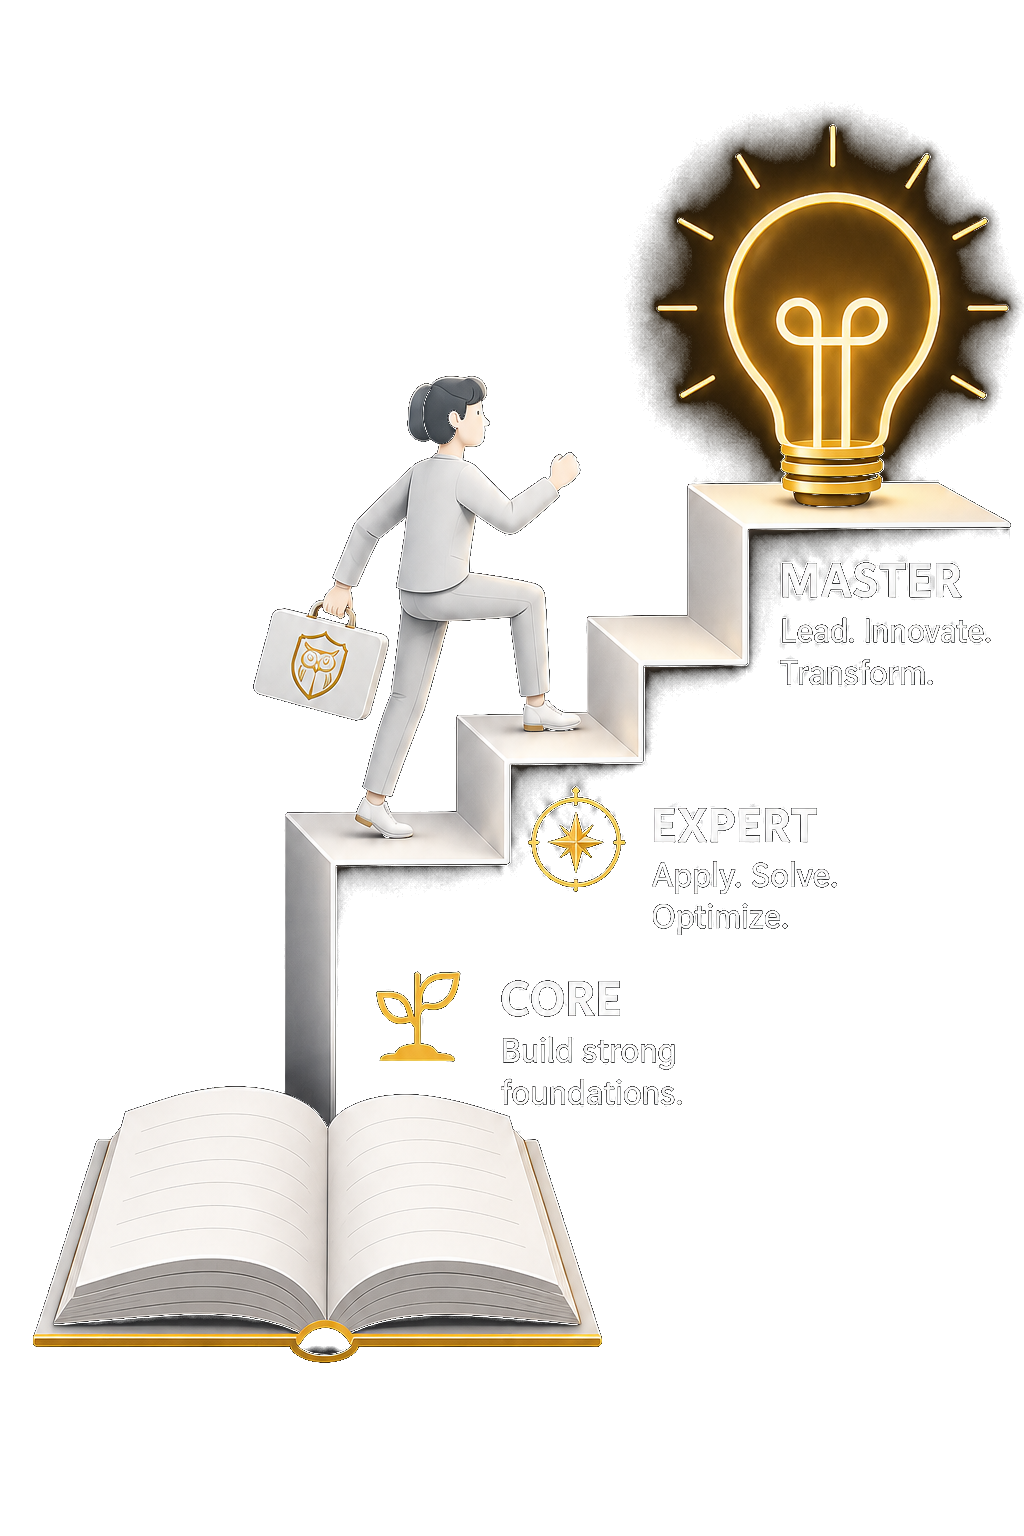
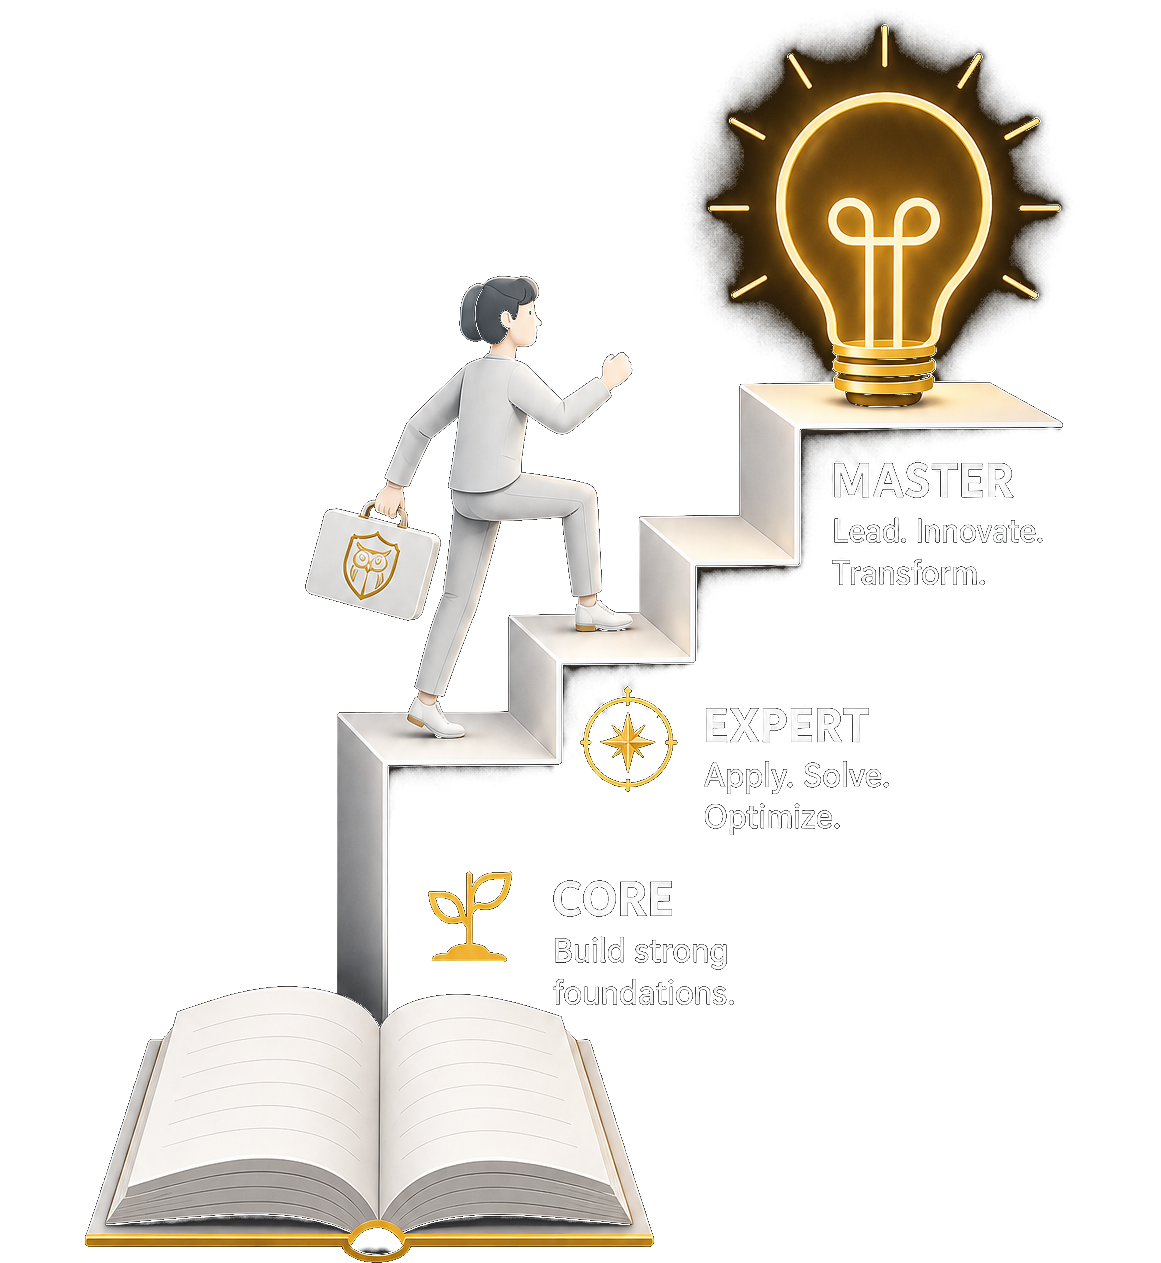
fix: trim dark stairs margins so figure + caption align with light mode
The new dark render had ~100px transparent space above the art and ~173px
below it, which pushed the climbing figure's head down into the whitespace
under the title and left the caption an inch off the book. Trim to the content
bounding box and pad to the light image's aspect ratio (1037:1128) so both
modes render in an identical box: head aligns with THE LADDER AI and the
caption sits snug to the book. Bump cache-buster v6 -> v7.

Changed region(s): [[0.0312, 0.0, 1.0, 1.0]]

diff --git a/theladder/ladder2.html b/theladder/ladder2.html
@@ -88,7 +88,7 @@
       </aside>
       <aside class="ladder-stairs-aside">
         <img class="ladder-stairs ladder-stairs--light" src="/theladder/ladder-stairs.png?v=4" alt="The Ladder AI levels — Core, Expert, Master">
-        <img class="ladder-stairs ladder-stairs--dark" src="/theladder/ladder-stairs-dark.png?v=6" alt="" aria-hidden="true">
+        <img class="ladder-stairs ladder-stairs--dark" src="/theladder/ladder-stairs-dark.png?v=7" alt="" aria-hidden="true">
         <p class="ladder-stairs-caption">Brought to you by Aesop AI Academy</p>
       </aside>
     </section>